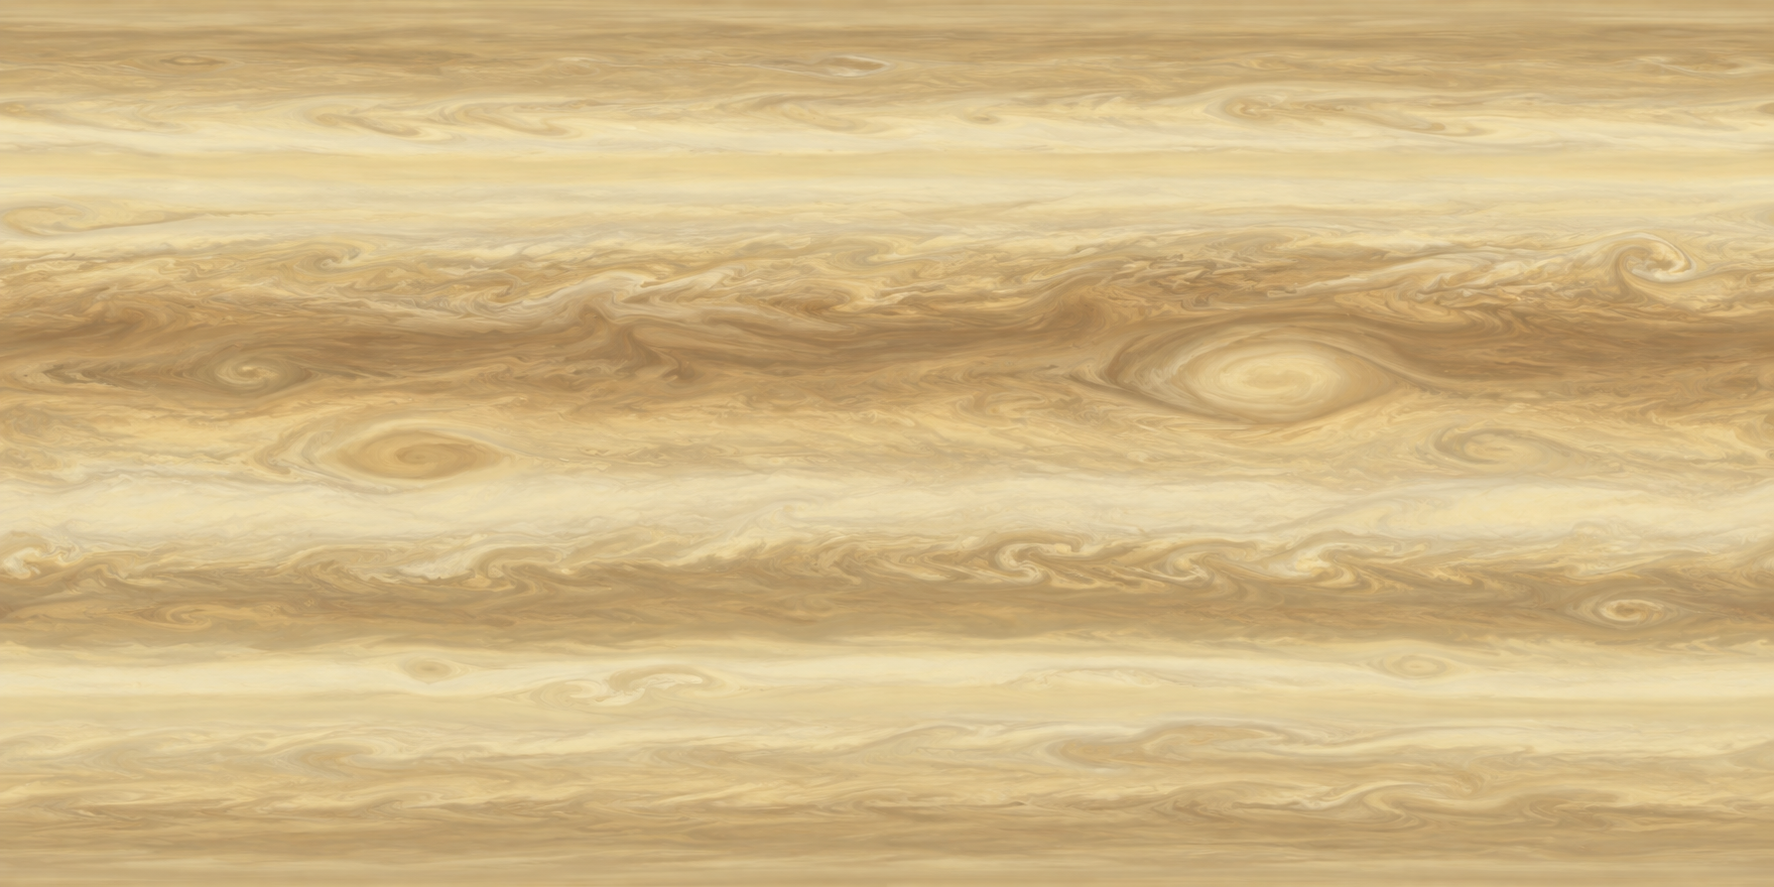
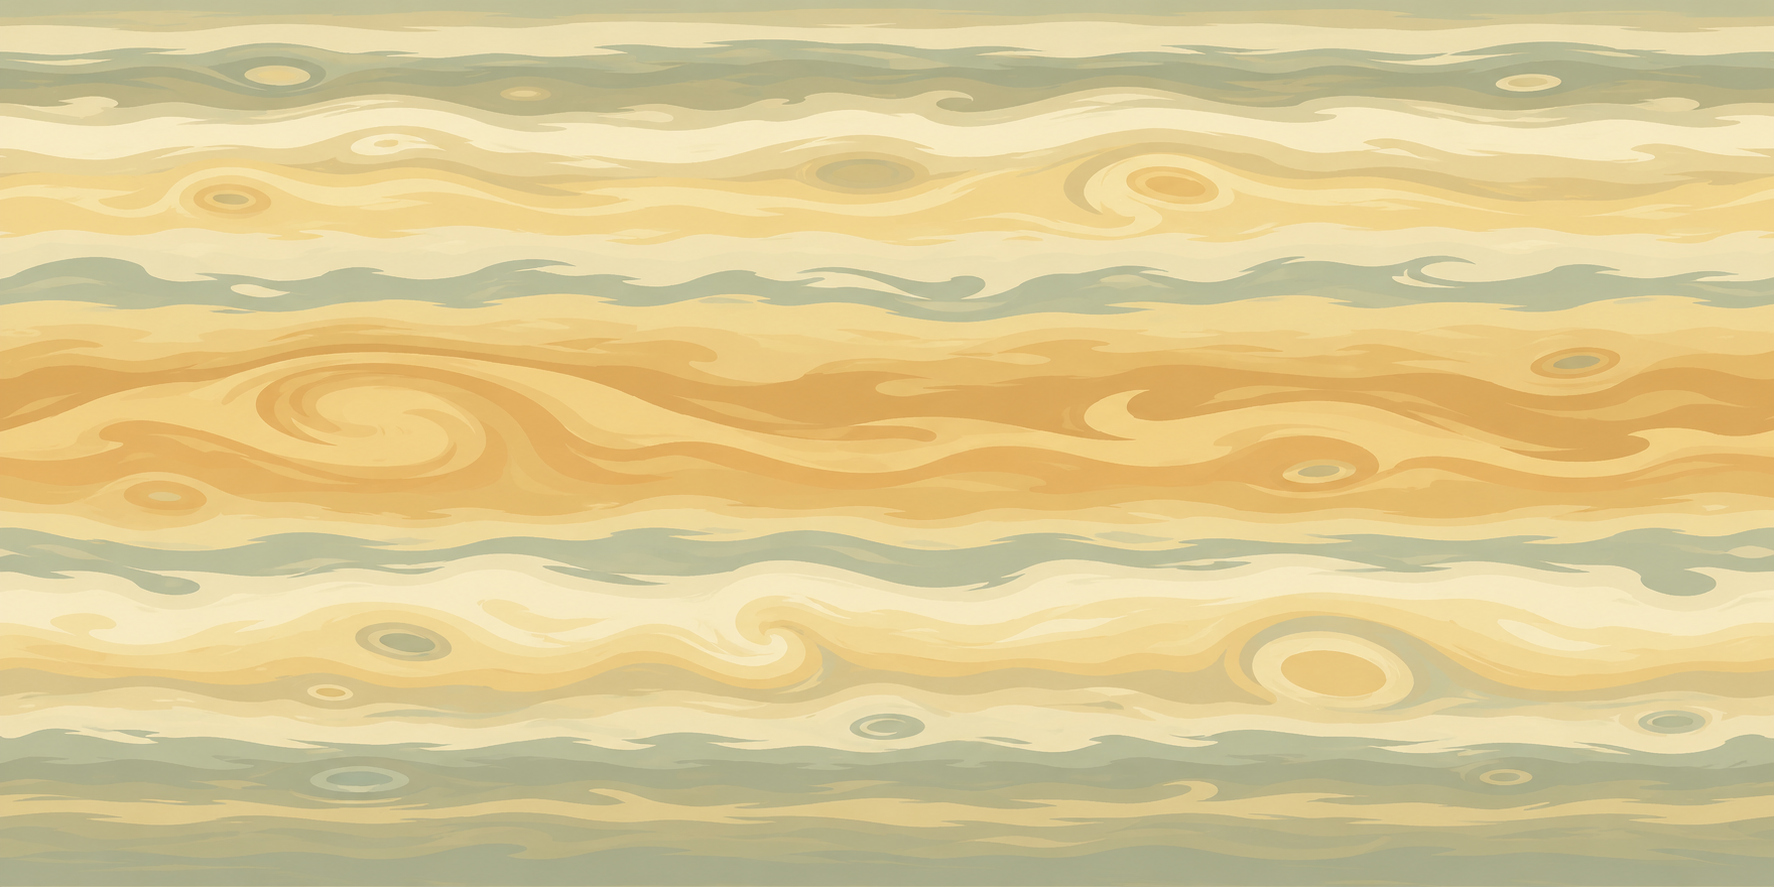
Complete cartoon materials for five celestial bodies

diff --git a/space-battleship/assets/planets/README.md b/space-battleship/assets/planets/README.md
@@ -14,13 +14,17 @@ The `planet.xlsx` optional `visual` JSON column is the appearance authority (pro
 
 Stellar appearances use the same sphere: `emission`, `surfaceTint`, `shadowTint`, `detailScale`, `detailStrength`, `radiusScale`, `axisRatio`, `coronaWidth`, `pulseStrength`, `pulseSpeed`, `flareStrength`, `beamLength`, `beamWidth`, `beamSpeed`, `magnetosphere`. Radii and beam lengths are relative to the body; time settings use seconds, rotation uses turns/second. Omitted fields inherit neutral defaults; missing maps use the current default sphere textures. Geometry, halo, transparent cones and magnetic field are shader-generated. Visual clock is owned by the visible page, independent of exploration time. New bodies need only table rows and assets; IDs never select rendering code. The pulsar retains numeric gameplay ID `6` and display name `脉冲星-PSR T46+38`; resource filenames use safe ASCII.
 
-`t587e_surface.png` and `stellar_plasma.png`: built-in ImageGen, 2026-09-29, native 1774×887. Gas uses one map at two UV rates; all stellar bodies share the neutral plasma map at different scales/contrasts. No physical planetary ring bitmap or mesh is added. Import with mipmaps.
+`t587e_surface.png` and `stellar_plasma.png`: built-in ImageGen, 2026-10-01, native 1774×887 RGB. Cartoon replacements are saved at the existing configured paths, with mipmaps. Gas has broad cream/gold/olive atmospheric bands and rounded eddies; its one map is sampled at the two configured UV rates. All four stellar bodies share the neutral rounded-cell plasma map. Existing appearance fields control scale, tint, radius, corona, pulse and jets. No extra ring mesh, bitmap or second magnetic-field layer is added.
 
-Additional generation prompts:
+## Cartoon generation prompts
 
-> Generate ONE game-ready rectangular equirectangular albedo texture, 2:1 aspect ratio, full-bleed seamless horizontally tileable atmospheric gas giant map. Soft horizontal cream ivory pale gold sand and muted light brown cloud bands, broad stable gentle flows, fine subtle wisps, very weak large oval storms. Low contrast elegant heavy atmosphere, Saturn-like palette but original alien cloud patterns, NOT Jupiter. Flat uniformly unlit texture fills EVERY pixel; no spherical globe, no lighting, no shadow, no rings, no space, no text or borders. Shader will provide spherical mapping and differential cloud motion. Save output image locally for game project asset.
+Gas:
 
-> ONE full-bleed game texture: flat rectangular 2:1 equirectangular stellar convection plasma density field. Grayscale only, bright silver-gray irregular convection cells separated by darker thin meandering channels, organic billowing cellular granulation, multiscale turbulent fine filament details inside each cell. Approximately 35 cells across width, irregular natural sizes. Moderate contrast no pure black, no black holes. Horizontally seamless tileable, consistent scale and brightness everywhere, uniform unlit map. No sphere, no globe, no directional light, no corona, no beams, no stars, no space background, no lettering, no border. This single neutral texture will be colored warm white for fine main sequence granulation and dark orange/red for coarse red giant convection by Godot shader UV scale, and subtler blue-white for compact stellar cores.
+> Game-ready cartoon science-fiction gas-giant unlit albedo; flat full-bleed 2:1 equirectangular map, seamless horizontally. Broad calm cream/ivory/pale-gold/sandy-beige/pale-olive bands, a few clean rounded flowing swells and sparse stylized oval eddies. Soft cel-painted flat patches, minimal detail, no photographic grit. Shader supplies spherical wrapping and light. No globe, sphere, planet outline, rings, halo, space, stars, text, UI or frame. Matching left/right edges.
+
+Shared stellar map:
+
+> Cartoon stellar plasma density albedo; flat full-bleed 2:1 horizontally seamless grayscale map. Large organic rounded convection cells, broad cloud-puff interiors and medium-gray channels, clean two/three-tone patches with minimal wispy highlights. No fine noise or photographic granulation. Uniformly unlit, no sphere, globe, corona, beams, space, stars, text, border or UI. Shader supplies tint, spherical wrapping, scale differences, glow and magnetic jets. Matching left/right edges.
 
 ## Generation prompts
 
